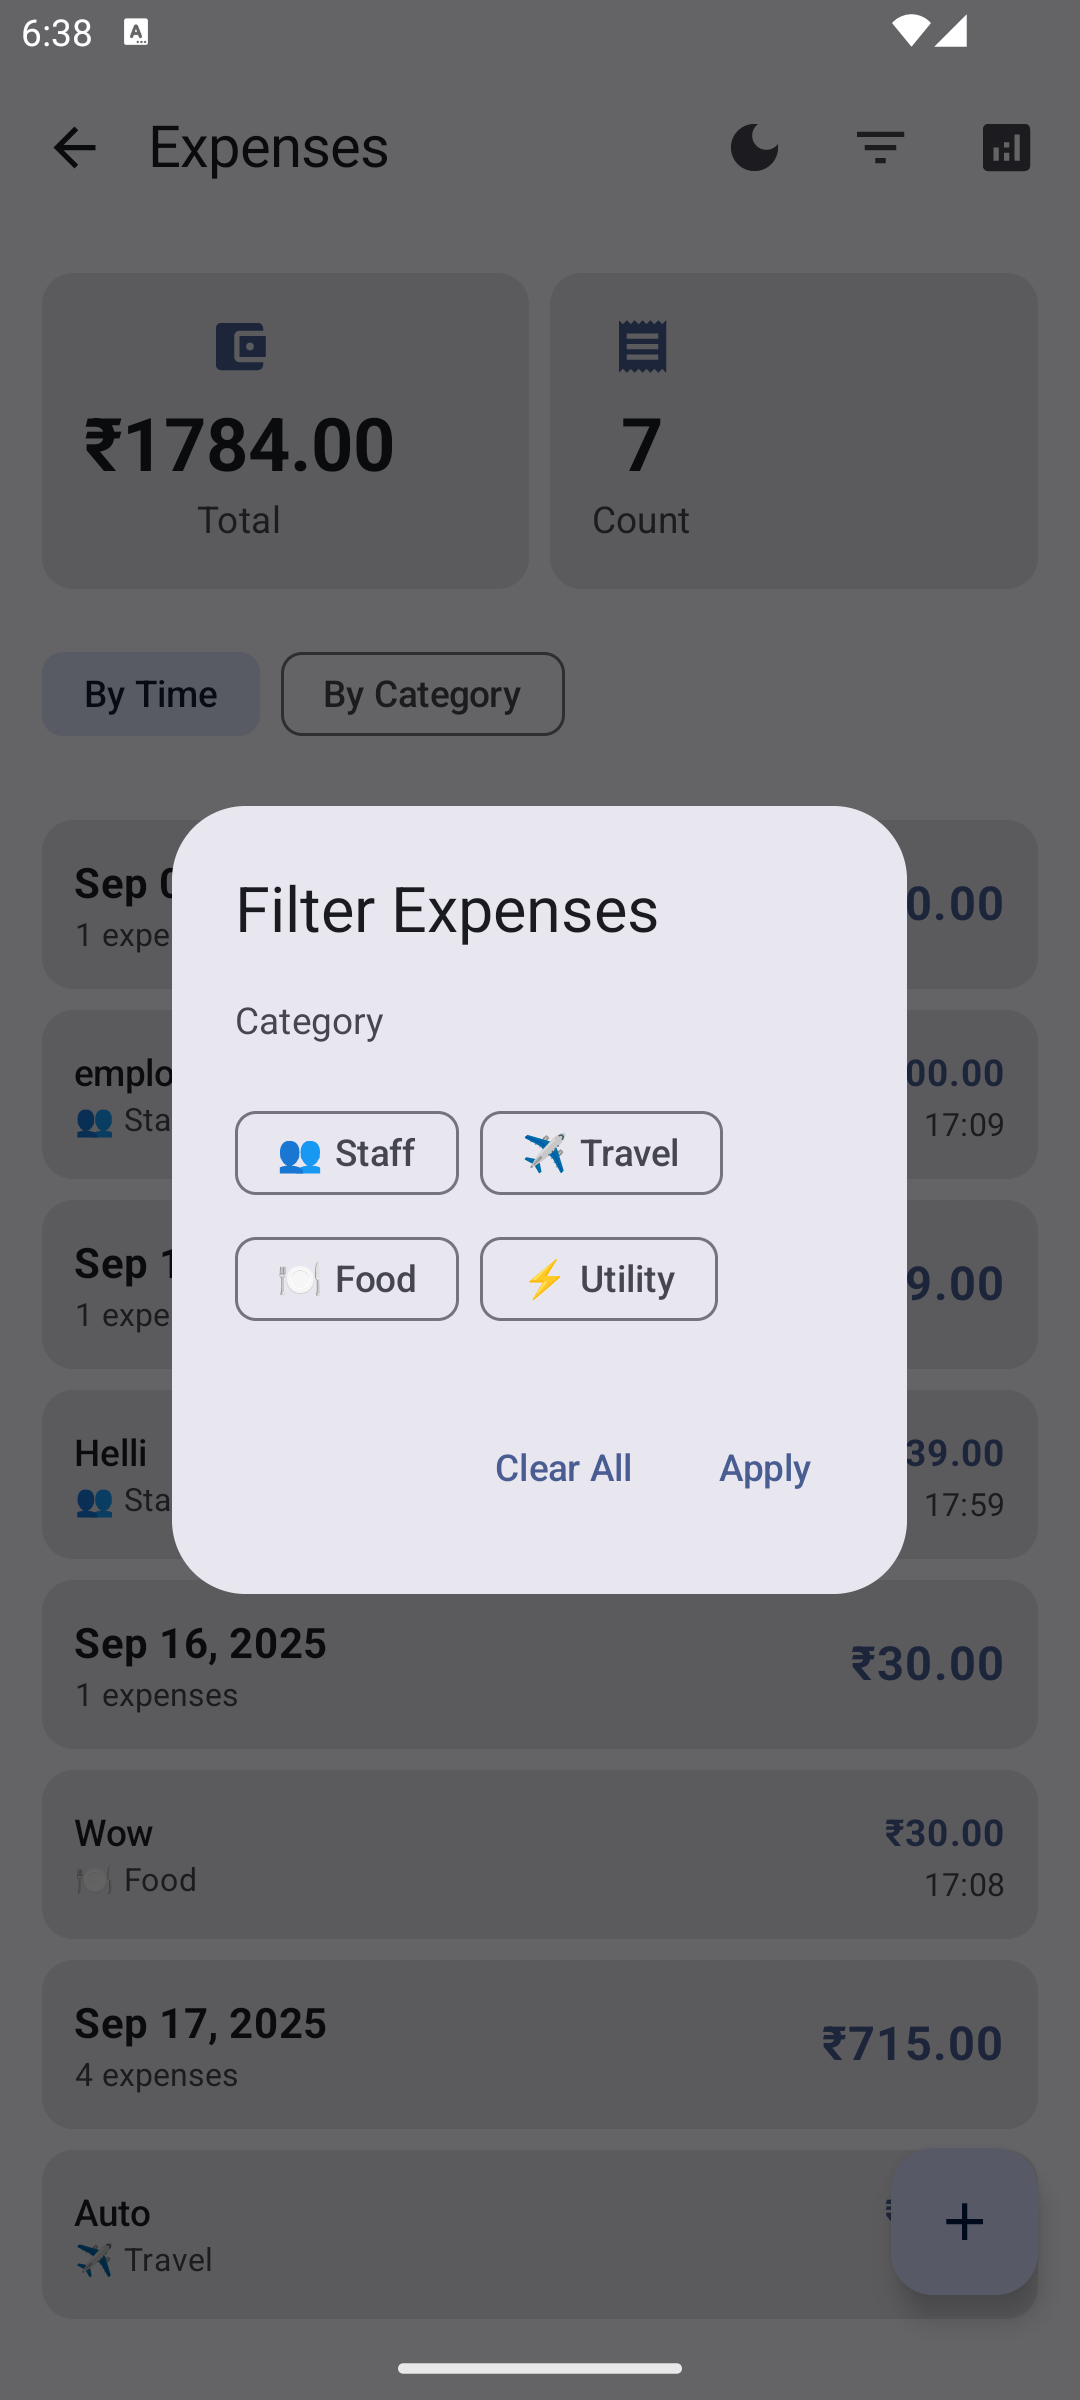
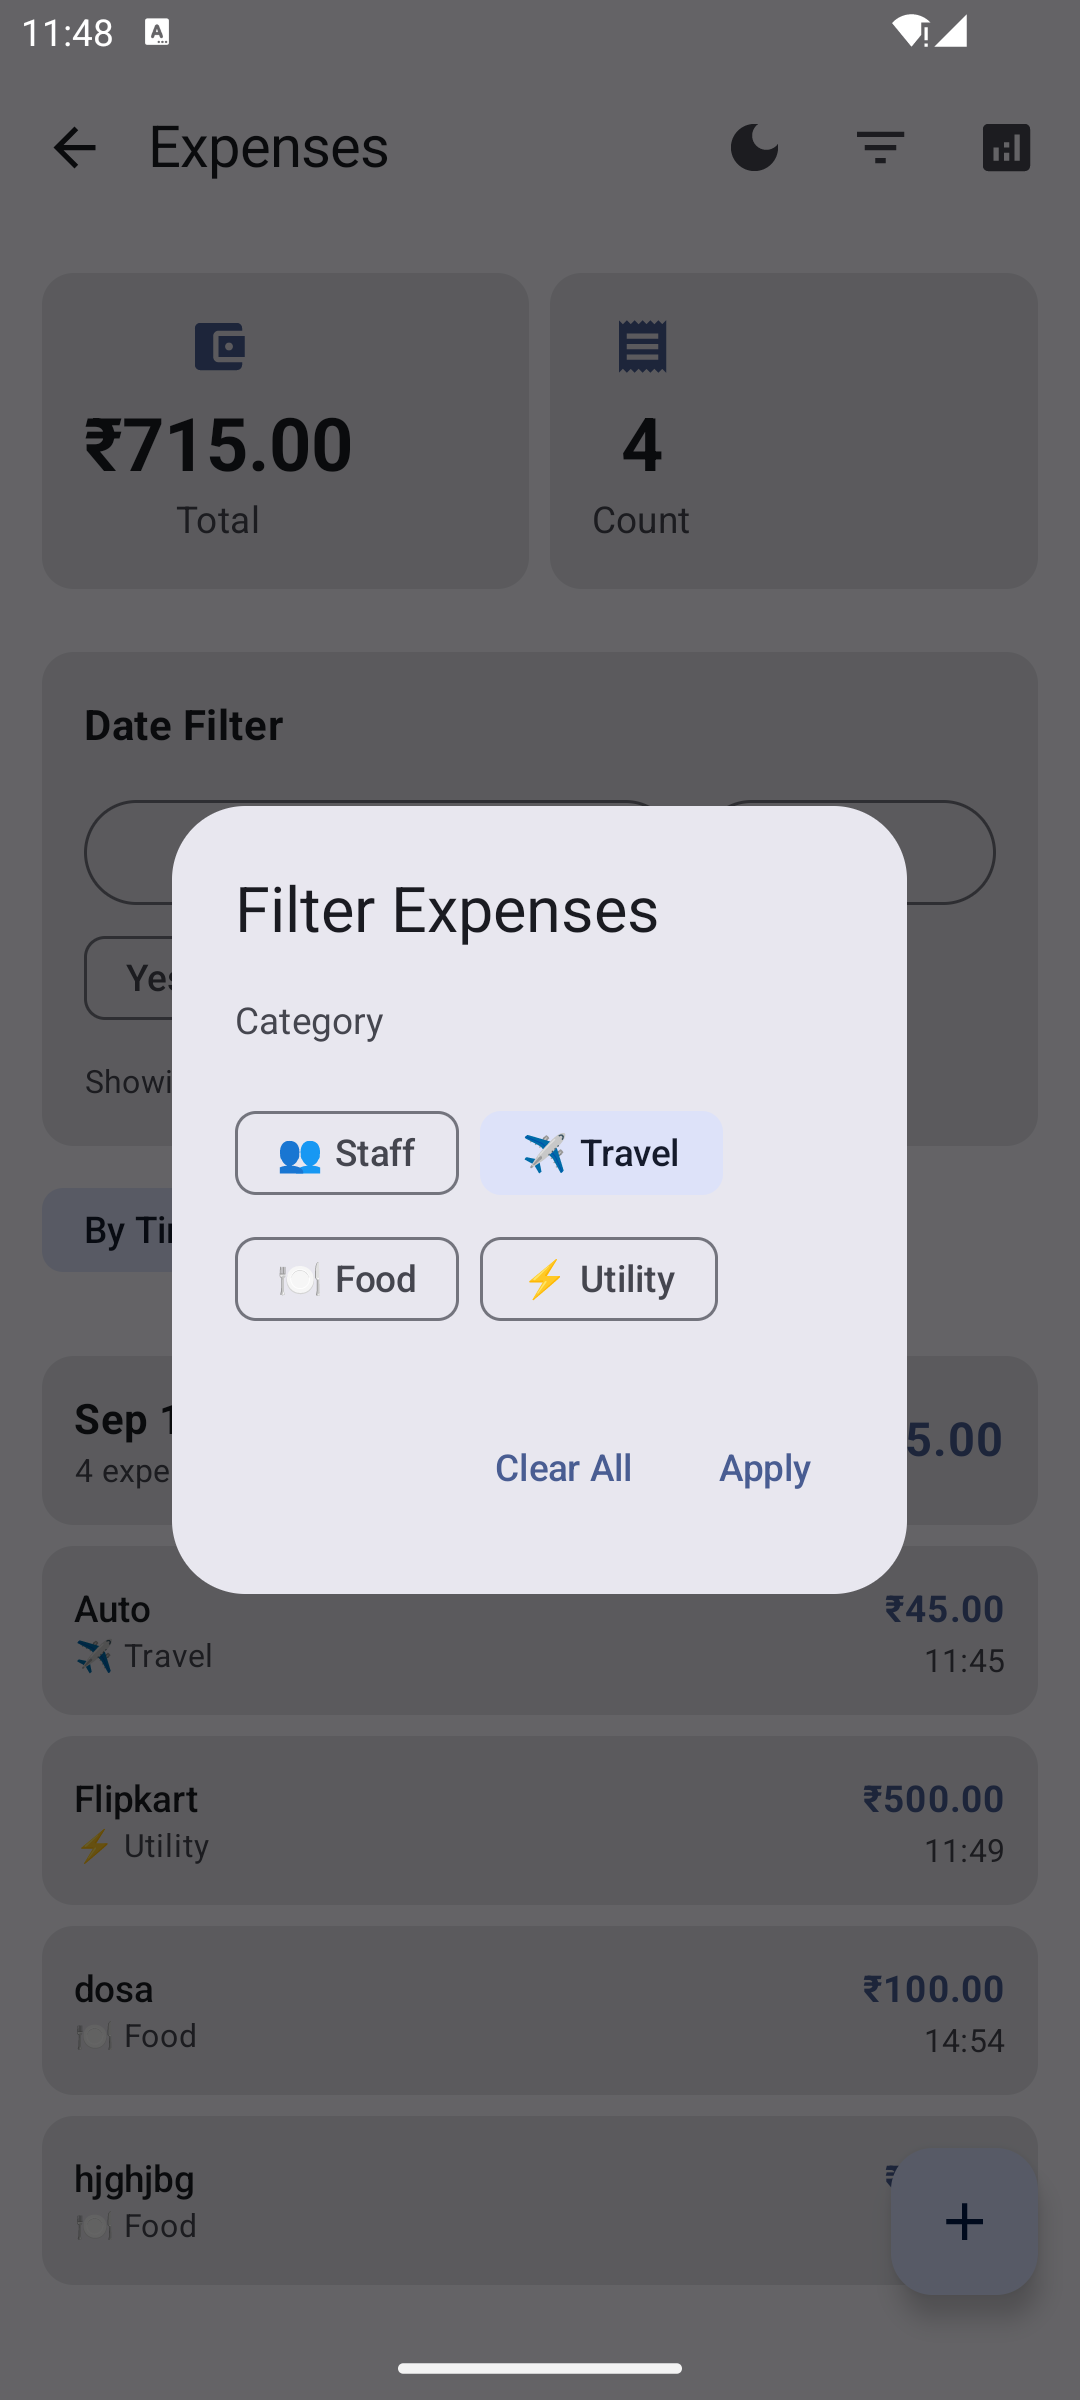
changelog: - Expense list changes - Added screenshots

diff --git a/app/src/main/java/com/example/expensetracker/presentation/screen/ExpenseListScreen.kt b/app/src/main/java/com/example/expensetracker/presentation/screen/ExpenseListScreen.kt
@@ -34,6 +34,7 @@ fun ExpenseListScreen(
 ) {
     val uiState by viewModel.uiState.collectAsState()
     var showFilterDialog by remember { mutableStateOf(false) }
+    var showDatePicker by remember { mutableStateOf(false) }
     
     Scaffold(
         topBar = {
@@ -108,6 +109,23 @@ fun ExpenseListScreen(
                 }
             }
             
+            // Date Filter Section
+            DateFilterSection(
+                selectedStartDate = uiState.selectedStartDate,
+                selectedEndDate = uiState.selectedEndDate,
+                onDatePickerClick = { showDatePicker = true },
+                onTodayClick = { viewModel.setDateToToday() },
+                onYesterdayClick = { 
+                    val yesterday = java.time.LocalDate.now().minusDays(1)
+                    viewModel.setDateRange(yesterday, yesterday)
+                },
+                onThisWeekClick = {
+                    val today = java.time.LocalDate.now()
+                    val startOfWeek = today.minusDays(today.dayOfWeek.value - 1L)
+                    viewModel.setDateRange(startOfWeek, today)
+                }
+            )
+            
             // Group By Toggle
             if (!uiState.isEmpty) {
                 Row(
@@ -170,6 +188,37 @@ fun ExpenseListScreen(
                     }
                 }
             }
+        }
+    }
+    
+    // Date Picker Dialog
+    if (showDatePicker) {
+        val datePickerState = rememberDatePickerState(
+            initialSelectedDateMillis = uiState.selectedStartDate?.let { date ->
+                date.atStartOfDay(java.time.ZoneId.systemDefault()).toInstant().toEpochMilli()
+            } ?: System.currentTimeMillis()
+        )
+        
+        DatePickerDialog(
+            onDismissRequest = { showDatePicker = false },
+            confirmButton = {
+                TextButton(
+                    onClick = {
+                        datePickerState.selectedDateMillis?.let { millis ->
+                            val selectedDate = java.time.Instant.ofEpochMilli(millis)
+                                .atZone(java.time.ZoneId.systemDefault())
+                                .toLocalDate()
+                            viewModel.setDateRange(selectedDate, selectedDate)
+                        }
+                        showDatePicker = false
+                    }
+                ) { Text("OK") }
+            },
+            dismissButton = {
+                TextButton(onClick = { showDatePicker = false }) { Text("Cancel") }
+            }
+        ) {
+            DatePicker(state = datePickerState)
         }
     }
     
@@ -338,4 +387,92 @@ private fun FilterDialog(
             }
         }
     )
+}
+
+@Composable
+private fun DateFilterSection(
+    selectedStartDate: java.time.LocalDate?,
+    selectedEndDate: java.time.LocalDate?,
+    onDatePickerClick: () -> Unit,
+    onTodayClick: () -> Unit,
+    onYesterdayClick: () -> Unit,
+    onThisWeekClick: () -> Unit
+) {
+    Card(
+        modifier = Modifier
+            .fillMaxWidth()
+            .padding(horizontal = 16.dp, vertical = 8.dp)
+    ) {
+        Column(
+            modifier = Modifier.padding(16.dp)
+        ) {
+            Text(
+                text = "Date Filter",
+                style = MaterialTheme.typography.titleMedium,
+                fontWeight = FontWeight.Bold
+            )
+            Spacer(modifier = Modifier.height(12.dp))
+            
+            Row(
+                modifier = Modifier.fillMaxWidth(),
+                horizontalArrangement = Arrangement.spacedBy(8.dp)
+            ) {
+                OutlinedButton(
+                    onClick = onDatePickerClick,
+                    modifier = Modifier.weight(1f)
+                ) {
+                    Icon(
+                        Icons.Default.DateRange,
+                        contentDescription = null,
+                        modifier = Modifier.size(18.dp)
+                    )
+                    Spacer(modifier = Modifier.width(8.dp))
+                    Text(
+                        text = if (selectedStartDate == selectedEndDate) {
+                            selectedStartDate?.format(DateTimeFormatter.ofPattern("MMM dd, yyyy")) ?: "Select Date"
+                        } else {
+                            "${selectedStartDate?.format(DateTimeFormatter.ofPattern("MMM dd"))} - ${selectedEndDate?.format(DateTimeFormatter.ofPattern("MMM dd, yyyy"))}"
+                        }
+                    )
+                }
+                
+                OutlinedButton(
+                    onClick = onTodayClick,
+                    modifier = Modifier.weight(0.5f)
+                ) {
+                    Text("Today")
+                }
+            }
+            
+            // Quick date options
+            Row(
+                modifier = Modifier.fillMaxWidth(),
+                horizontalArrangement = Arrangement.spacedBy(8.dp)
+            ) {
+                FilterChip(
+                    onClick = onYesterdayClick,
+                    label = { Text("Yesterday") },
+                    selected = false
+                )
+                FilterChip(
+                    onClick = onThisWeekClick,
+                    label = { Text("This Week") },
+                    selected = false
+                )
+            }
+            
+            if (selectedStartDate != null && selectedEndDate != null) {
+                Spacer(modifier = Modifier.height(8.dp))
+                Text(
+                    text = if (selectedStartDate == selectedEndDate) {
+                        "Showing expenses for ${selectedStartDate.format(DateTimeFormatter.ofPattern("EEEE, MMMM dd, yyyy"))}"
+                    } else {
+                        "Showing expenses from ${selectedStartDate.format(DateTimeFormatter.ofPattern("MMM dd"))} to ${selectedEndDate.format(DateTimeFormatter.ofPattern("MMM dd, yyyy"))}"
+                    },
+                    style = MaterialTheme.typography.bodySmall,
+                    color = MaterialTheme.colorScheme.onSurfaceVariant
+                )
+            }
+        }
+    }
 }

diff --git a/app/src/main/java/com/example/expensetracker/presentation/viewmodel/ExpenseListViewModel.kt b/app/src/main/java/com/example/expensetracker/presentation/viewmodel/ExpenseListViewModel.kt
@@ -29,6 +29,11 @@ class ExpenseListViewModel @Inject constructor(
     val uiState: StateFlow<ExpenseListUiState> = _uiState.asStateFlow()
     
     init {
+        // Set default to today's date
+        _uiState.value = _uiState.value.copy(
+            selectedStartDate = LocalDate.now(),
+            selectedEndDate = LocalDate.now()
+        )
         loadExpenses()
     }
     
@@ -87,10 +92,26 @@ class ExpenseListViewModel @Inject constructor(
     
     fun clearFilters() {
         _uiState.value = _uiState.value.copy(
-            selectedStartDate = null,
-            selectedEndDate = null,
+            selectedStartDate = LocalDate.now(),
+            selectedEndDate = LocalDate.now(),
             selectedCategory = null,
             groupBy = GroupBy.TIME
+        )
+        loadExpenses()
+    }
+    
+    fun setDateToToday() {
+        _uiState.value = _uiState.value.copy(
+            selectedStartDate = LocalDate.now(),
+            selectedEndDate = LocalDate.now()
+        )
+        loadExpenses()
+    }
+    
+    fun setDateRange(startDate: LocalDate, endDate: LocalDate) {
+        _uiState.value = _uiState.value.copy(
+            selectedStartDate = startDate,
+            selectedEndDate = endDate
         )
         loadExpenses()
     }
